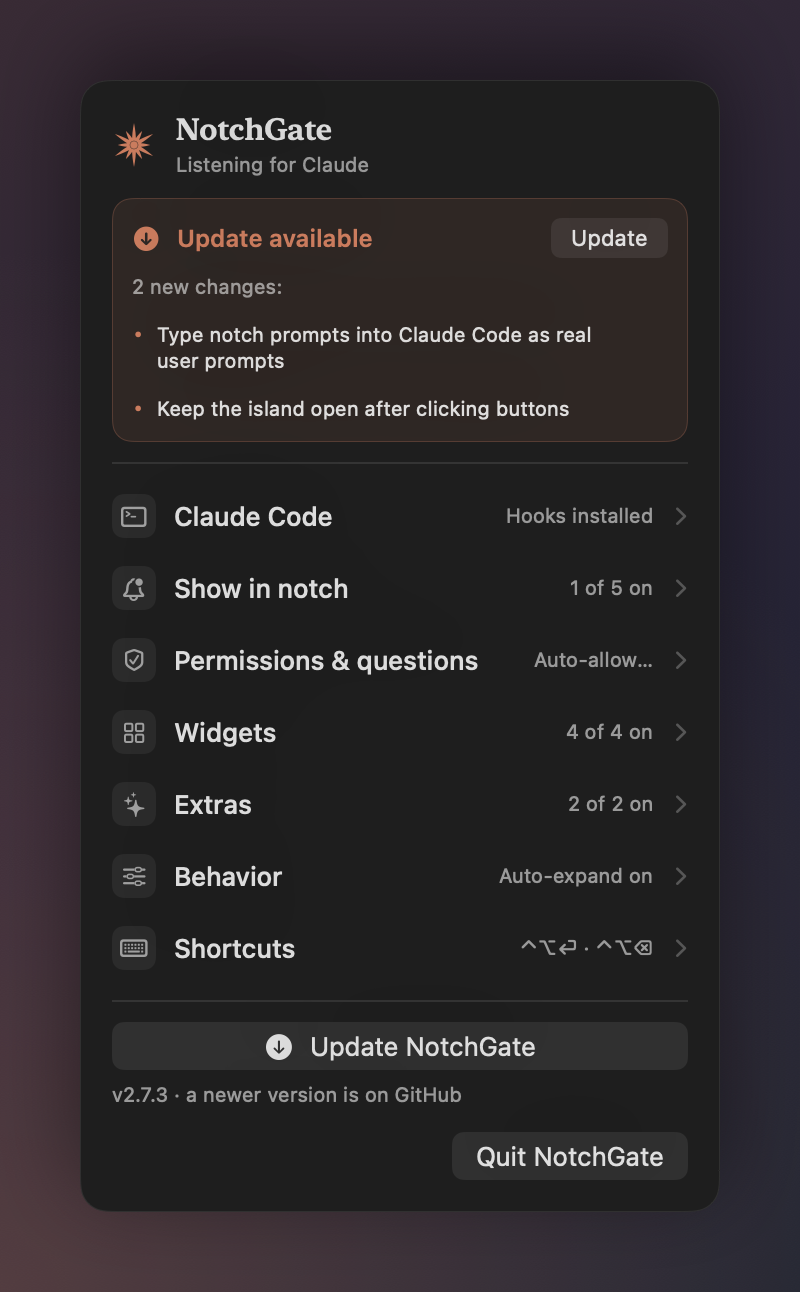
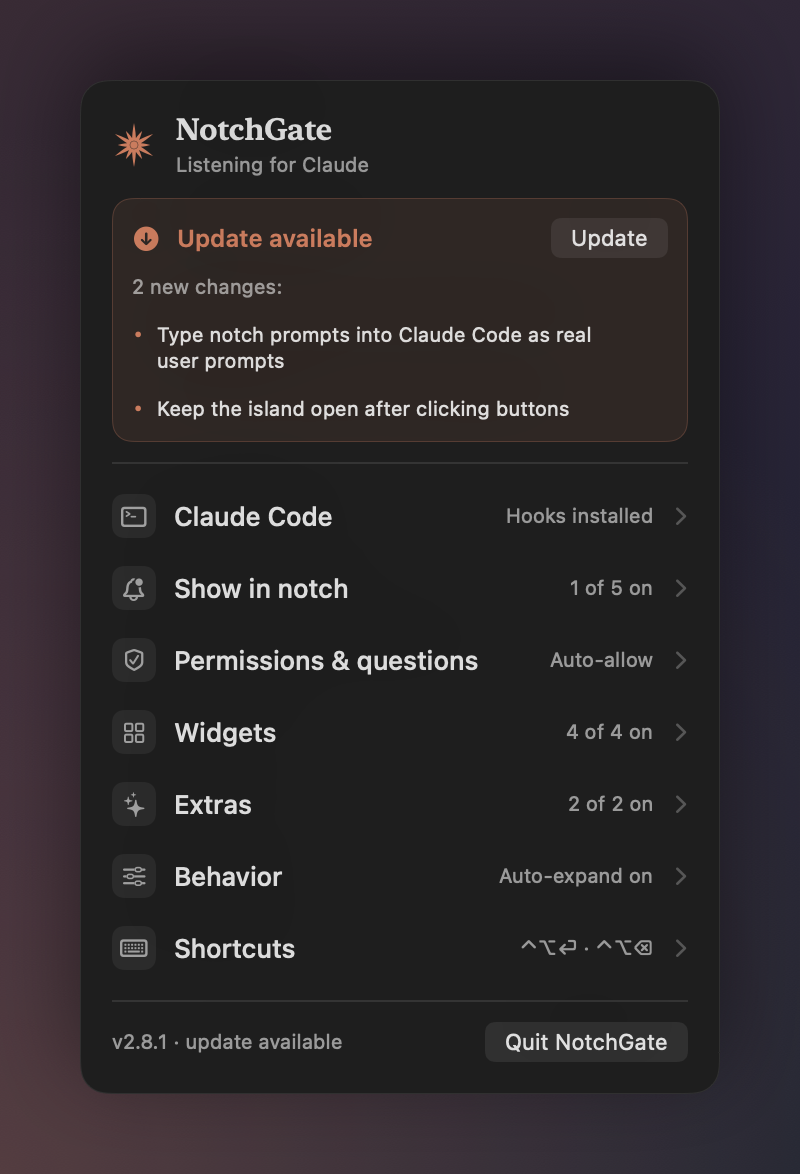
Update version to 2.8.1 and enhance update checking functionality
- Bumped version number to 2.8.1 in Info.plist and UpdateBanner.swift for consistency.
- Introduced a new menu recheck interval for update checks when the menu is opened, allowing for more efficient background checks.
- Updated the UpdateStatusView to reflect the new version and improved status messaging.
- Added unit tests to ensure the new update checking behavior works as expected.

diff --git a/Sources/NotchGate/Features/MenuBar/UpdateBanner.swift b/Sources/NotchGate/Features/MenuBar/UpdateBanner.swift
@@ -83,52 +83,32 @@ struct UpdateBanner: View {
     }
 }
 
-/// Bottom-of-menu row: a visible "Check for updates" (or "Update") button with the installed version.
+/// Bottom-of-menu line: the installed version and what the last update check found.
+/// Opening the menu runs the check, so there's no button for it.
 struct UpdateStatusView: View {
     let updates: UpdateChecker
 
     var body: some View {
-        VStack(alignment: .leading, spacing: 6) {
-            actionButton
-            Text(statusText)
-                .font(.caption)
-                .foregroundStyle(.secondary)
-                .lineLimit(1)
-        }
-    }
-
-    @ViewBuilder
-    private var actionButton: some View {
-        if updates.isUpdateAvailable {
-            Button { Task { await updates.update() } } label: {
-                Label("Update NotchGate", systemImage: "arrow.down.circle.fill")
-                    .frame(maxWidth: .infinity)
-            }
-            .buttonStyle(.borderedProminent)
-            .tint(Theme.Palette.clay)
-            .disabled(updates.state == .updating)
-        } else {
-            Button { Task { await updates.check() } } label: {
-                Label(updates.state == .checking ? "Checking for updates…" : "Check for updates",
-                      systemImage: "arrow.triangle.2.circlepath")
-                    .frame(maxWidth: .infinity)
-            }
-            .buttonStyle(.bordered)
-            .disabled(updates.state == .checking || updates.state == .unsupported)
-        }
+        Text(statusText)
+            .font(.caption)
+            .foregroundStyle(.secondary)
+            .lineLimit(1)
+            .contentTransition(.opacity)
+            .animation(.easeOut(duration: 0.2), value: statusText)
     }
 
     private var statusText: String {
         switch updates.state {
-        case .unsupported: return "\(versionText) · updates are checked in the installed app"
+        case .unsupported: return "\(versionText) · dev build"
+        case .checking: return "\(versionText) · checking for updates…"
         case .upToDate: return "\(versionText) · up to date"
-        default: return updates.isUpdateAvailable ? "\(versionText) · a newer version is on GitHub" : versionText
+        default: return updates.isUpdateAvailable ? "\(versionText) · update available" : versionText
         }
     }
 
     private var versionText: String {
         // Dev builds (`swift run`) have no Info.plist; fall back to the release version.
-        let version = Bundle.main.object(forInfoDictionaryKey: "CFBundleShortVersionString") as? String ?? "2.8.0"
+        let version = Bundle.main.object(forInfoDictionaryKey: "CFBundleShortVersionString") as? String ?? "2.8.1"
         return updates.shortInstalledCommit.map { "v\(version) (\($0))" } ?? "v\(version)"
     }
 }

diff --git a/Sources/NotchGate/Core/Updates/UpdateChecker.swift b/Sources/NotchGate/Core/Updates/UpdateChecker.swift
@@ -18,6 +18,8 @@ final class UpdateChecker {
 
     static let checkInterval: Duration = .seconds(6 * 60 * 60)
     static let launchDelay: Duration = .seconds(20)
+    /// Opening the menu re-asks GitHub at most this often (its API allows 60 calls an hour).
+    nonisolated static let menuRecheckInterval: TimeInterval = 10 * 60
 
     private(set) var state: State = .idle
     /// The last update we found; kept while re-checking so the banner doesn't flicker.
@@ -29,6 +31,8 @@ final class UpdateChecker {
     @ObservationIgnored private let settings: AppSettings
     @ObservationIgnored private let defaults: UserDefaults
     @ObservationIgnored private var schedule: Task<Void, Never>?
+    /// When GitHub last answered (or failed to), for throttling menu-open checks.
+    @ObservationIgnored private var lastCheckedAt: Date?
 
     /// Commit we were on when an update started; checked on the next launch.
     static let updateStartedFromKey = "update.startedFromCommit"
@@ -67,11 +71,25 @@ final class UpdateChecker {
         }
     }
 
+    /// Opening the menu checks quietly in the background; the menu shows
+    /// straight away and the banner appears if GitHub has something newer.
+    func checkOnMenuOpen(now: Date = .now) {
+        guard installedCommit != nil, Self.isDueOnMenuOpen(lastCheckedAt: lastCheckedAt, now: now) else { return }
+        Task { await check(userInitiated: false) }
+    }
+
+    /// Never checked, or the last check is older than `menuRecheckInterval`.
+    nonisolated static func isDueOnMenuOpen(lastCheckedAt: Date?, now: Date) -> Bool {
+        guard let lastCheckedAt else { return true }
+        return now.timeIntervalSince(lastCheckedAt) >= menuRecheckInterval
+    }
+
     func check(userInitiated: Bool = true) async {
         guard let installedCommit, state != .updating, state != .checking else { return }
         // Keep a failure on screen until the user acts on it; background checks would replace it.
         if !userInitiated, case .failed = state { return }
         state = .checking
+        defer { lastCheckedAt = .now }
         do {
             let info = try await UpdateSource.compare(installedSHA: installedCommit)
             available = info.aheadBy > 0 ? info : nil

diff --git a/Tests/NotchGateTests/UpdateTests.swift b/Tests/NotchGateTests/UpdateTests.swift
@@ -65,4 +65,19 @@ struct UpdateTests {
         #expect(checker.state == .unsupported)
         #expect(checker.installedCommit == nil)
     }
+
+    @Test @MainActor func devBuildsDontCheckWhenTheMenuOpens() {
+        let settings = AppSettings(defaults: UserDefaults(suiteName: "updates-\(UUID())") ?? .standard)
+        let checker = UpdateChecker(settings: settings, bundle: .main)
+        checker.checkOnMenuOpen()
+        #expect(checker.state == .unsupported)
+    }
+
+    @Test func openingTheMenuRechecksAtMostEveryTenMinutes() {
+        let now = Date()
+        #expect(UpdateChecker.isDueOnMenuOpen(lastCheckedAt: nil, now: now))
+        #expect(!UpdateChecker.isDueOnMenuOpen(lastCheckedAt: now.addingTimeInterval(-60), now: now))
+        #expect(!UpdateChecker.isDueOnMenuOpen(lastCheckedAt: now.addingTimeInterval(-9 * 60), now: now))
+        #expect(UpdateChecker.isDueOnMenuOpen(lastCheckedAt: now.addingTimeInterval(-10 * 60), now: now))
+    }
 }

diff --git a/Sources/NotchGate/Features/MenuBar/MenuBarContentView.swift b/Sources/NotchGate/Features/MenuBar/MenuBarContentView.swift
@@ -36,6 +36,7 @@ struct MenuBarContentView: View {
         .onAppear {
             coordinator.installer.refresh()
             coordinator.editorHelper.refresh()
+            coordinator.updates.checkOnMenuOpen()
         }
     }
 
@@ -100,14 +101,12 @@ struct MenuBarContentView: View {
     }
 
     private var footer: some View {
-        VStack(alignment: .leading, spacing: 12) {
+        HStack {
             UpdateStatusView(updates: coordinator.updates)
-            HStack {
-                Spacer()
-                Button("Quit NotchGate") { NSApp.terminate(nil) }
-                    .keyboardShortcut("q")
-            }
+            Spacer(minLength: 8)
+            Button("Quit NotchGate") { NSApp.terminate(nil) }
+                .keyboardShortcut("q")
+                .controlSize(.small)
         }
     }
 }
-

diff --git a/Sources/NotchGate/Features/MenuBar/MenuBarSections.swift b/Sources/NotchGate/Features/MenuBar/MenuBarSections.swift
@@ -112,7 +112,7 @@ extension IntegrationSection {
 
 extension PermissionsSection {
     var summary: String {
-        "Auto-allow \(settings.autoAllowPermissions ? "on" : "off")"
+        settings.autoAllowPermissions ? "Auto-allow" : "Ask first"
     }
 }
 
@@ -169,8 +169,8 @@ struct PreferencesSection: View {
             )
             GroupDivider()
             SettingRow(
-                "Check for updates",
-                info: "Looks for a newer NotchGate on GitHub and offers it at the top of this menu.",
+                "Check in the background",
+                info: "Checks GitHub every few hours, even with this menu closed, and puts a dot on the menu bar icon when an update is out.\n\nOpening this menu always checks.",
                 isOn: $settings.checkForUpdates
             )
             GroupDivider()
